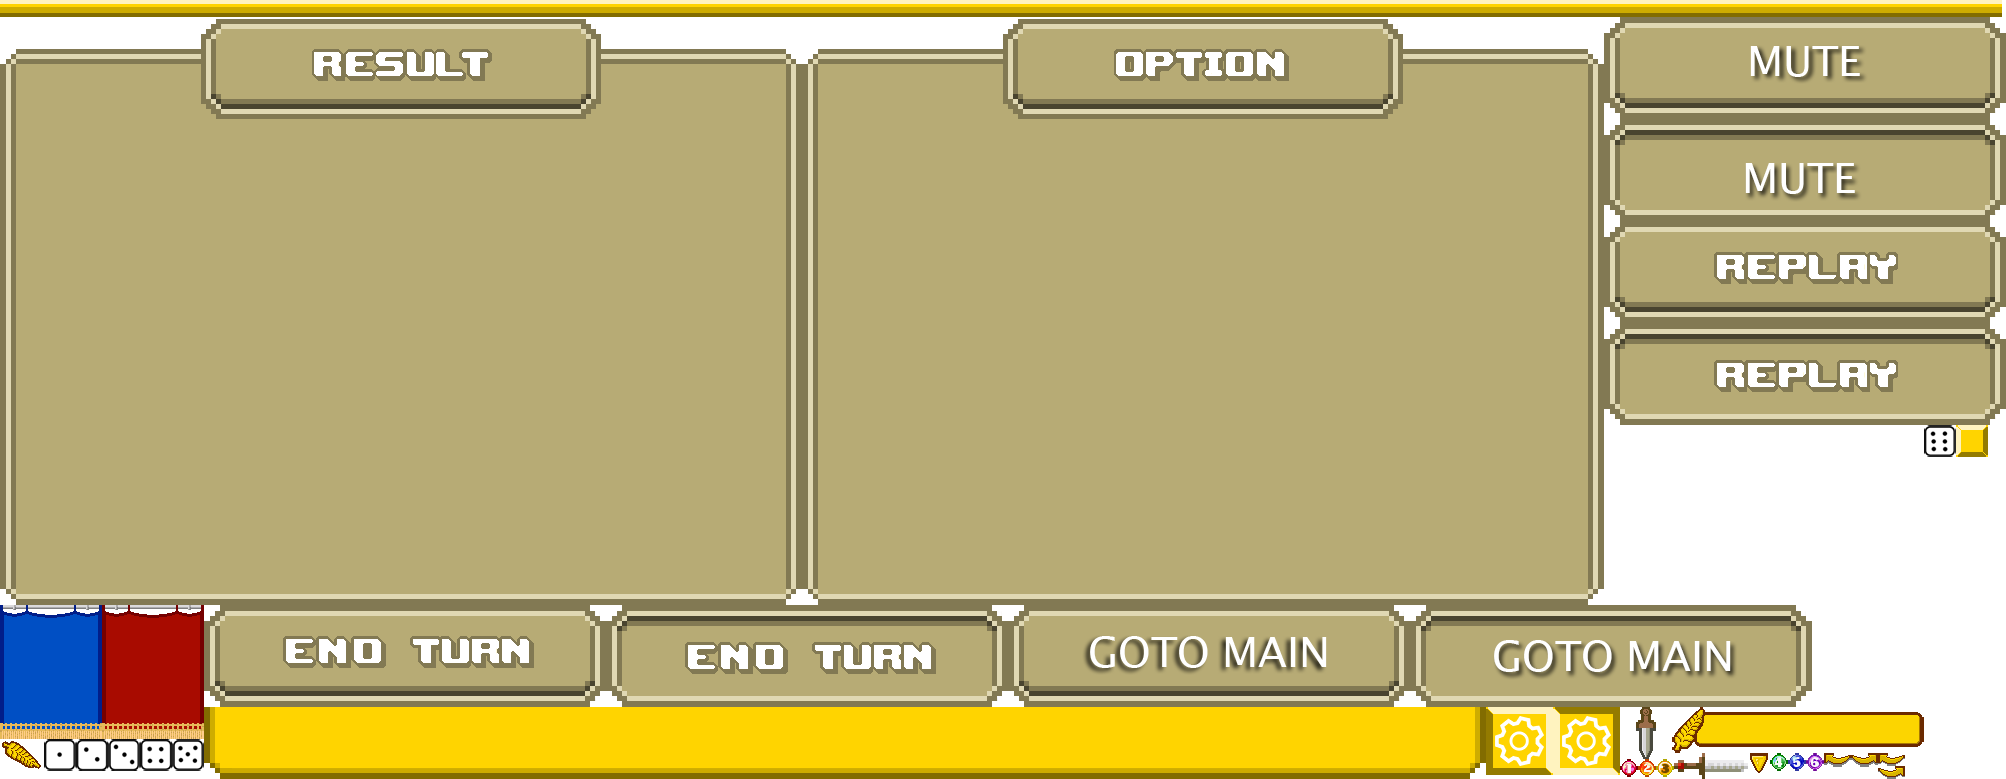
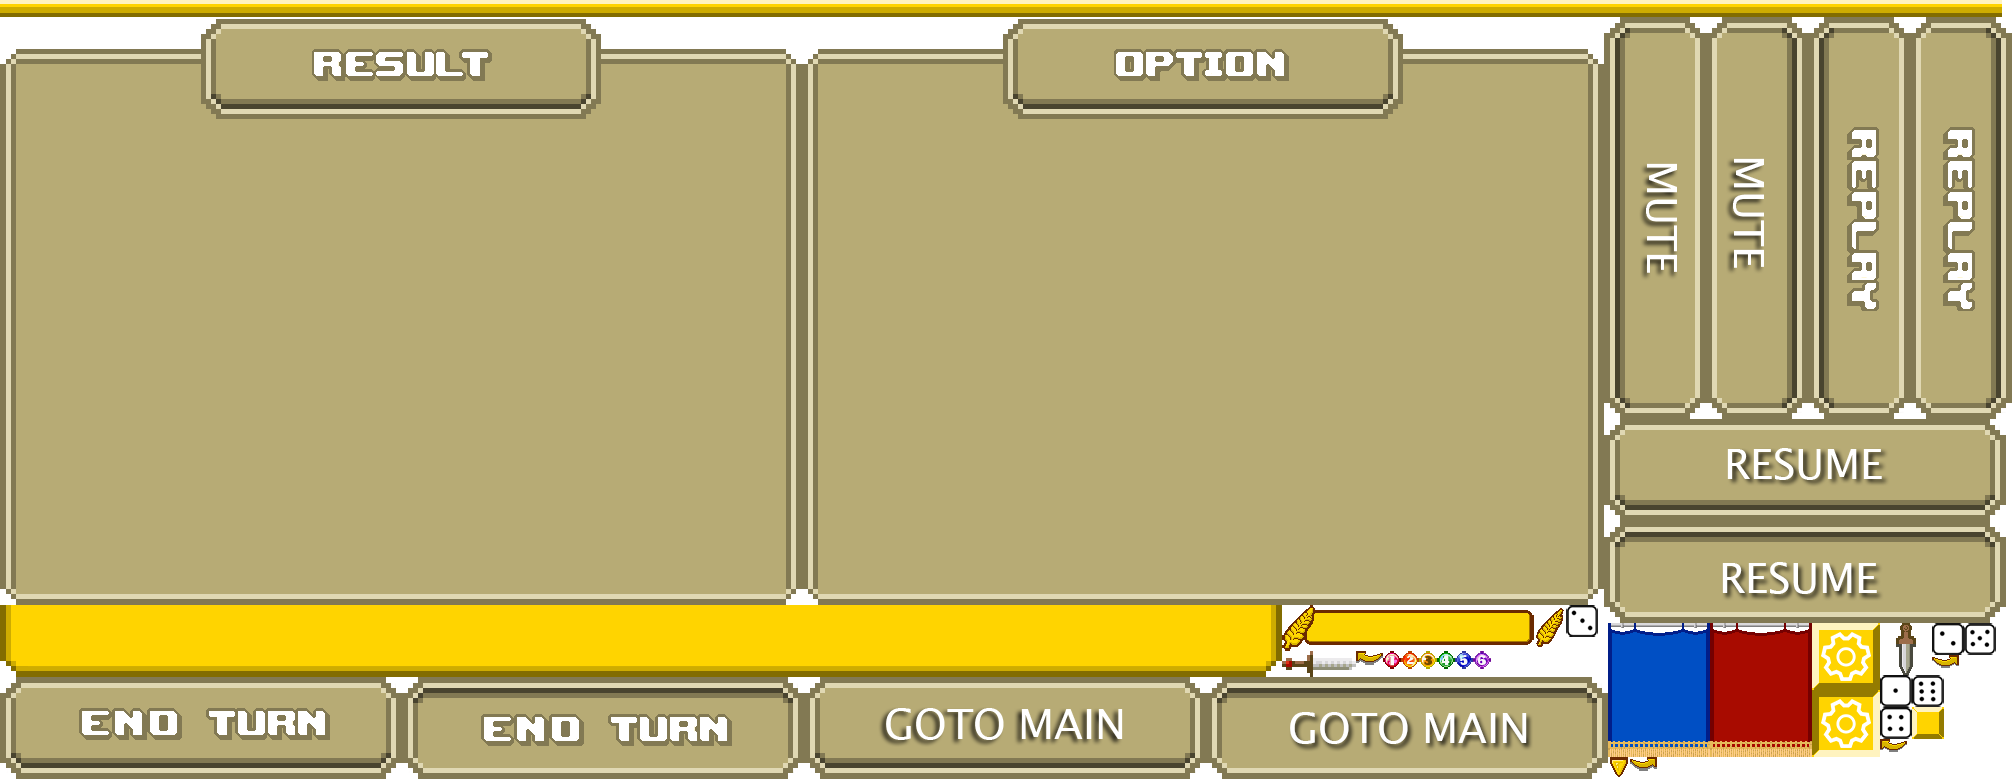
plist 누락 사항 commit

diff --git a/Cocos_practice/Classes/OptionLayer.cpp b/Cocos_practice/Classes/OptionLayer.cpp
@@ -26,9 +26,9 @@ bool OptionLayer::init()
 	BackLayer->setPosition(Vec2(0, 0));
 	this->addChild(BackLayer);
 
-	Sprite* resultPage = Sprite::createWithSpriteFrameName(FILENAME_IMG_UI_OPTION_WINDOW);
-	Sprite* replayButton = Sprite::createWithSpriteFrameName(FILENAME_IMG_BUTTON_REPLAY);
-	Sprite* replayButtonClicked = Sprite::createWithSpriteFrameName(FILENAME_IMG_BUTTON_REPLAY_CLICKED);
+	Sprite* optionWindow = Sprite::createWithSpriteFrameName(FILENAME_IMG_UI_OPTION_WINDOW);
+	Sprite* replayButton = Sprite::createWithSpriteFrameName(FILENAME_IMG_BUTTON_RESUME);
+	Sprite* replayButtonClicked = Sprite::createWithSpriteFrameName(FILENAME_IMG_BUTTON_RESUME_CLICKED);
 
 	MenuItemSprite* replaybtn = MenuItemSprite::create(replayButton, replayButtonClicked, CC_CALLBACK_0(OptionLayer::ReturnToMenu, this));
 	replaybtn->setPosition(Vec2(visibleSize.width * 1 / 2, visibleSize.height * 3/5 ));

diff --git a/Cocos_practice/Classes/ResultLayer.cpp b/Cocos_practice/Classes/ResultLayer.cpp
@@ -27,8 +27,8 @@ bool ResultLayer::init()
 	this->addChild(BackLayer);
 
 	Sprite* resultPage = Sprite::createWithSpriteFrameName(FILENAME_IMG_UI_RESULT_WINDOW);
-	Sprite* replayButton = Sprite::createWithSpriteFrameName(FILENAME_IMG_BUTTON_REPLAY);
-	Sprite* replayButtonClicked = Sprite::createWithSpriteFrameName(FILENAME_IMG_BUTTON_REPLAY_CLICKED);
+	Sprite* replayButton = Sprite::createWithSpriteFrameName(FILENAME_IMG_BUTTON_GOTO_MAIN);
+	Sprite* replayButtonClicked = Sprite::createWithSpriteFrameName(FILENAME_IMG_BUTTON_GOTO_MAIN_CLICKED);
 
 	MenuItemSprite* replaybtn = MenuItemSprite::create(replayButton, replayButtonClicked, CC_CALLBACK_0(ResultLayer::ReturnToMenu, this));
 	replaybtn->setPosition(Vec2(visibleSize.width * 1 / 2, visibleSize.height* 2/5 ));
